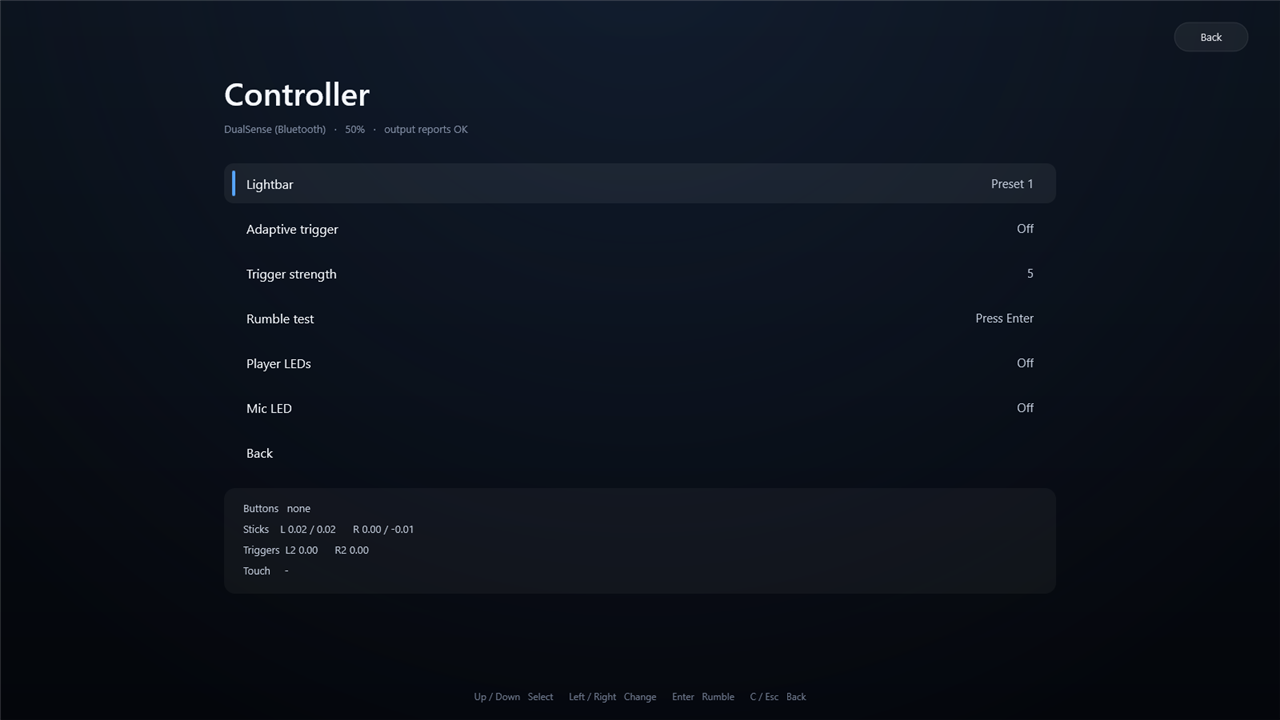
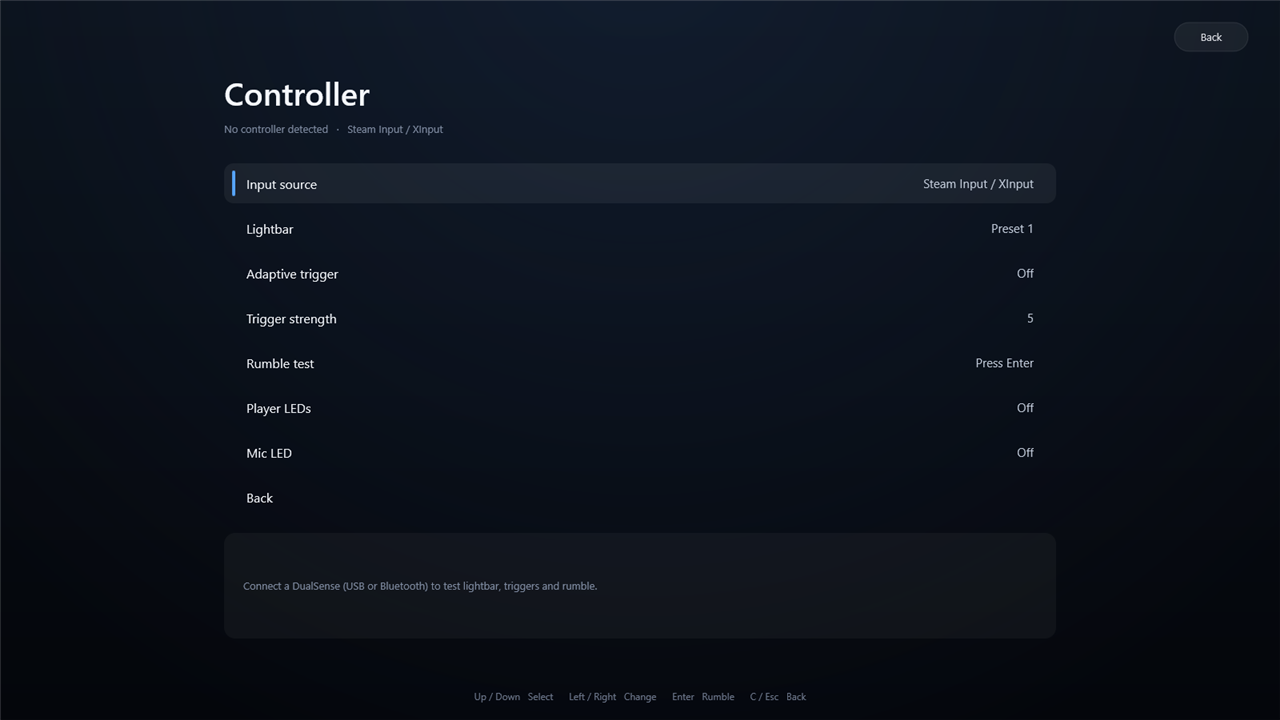
Controller: selectable input source (native HID vs Steam Input/XInput), docs

diff --git a/src/app/app.cpp b/src/app/app.cpp
@@ -32,7 +32,7 @@ std::string EnvString(const char* name) {
 }
 
 constexpr int kSettingCount = 9;
-constexpr int kControllerCount = 7;
+constexpr int kControllerCount = 8;
 constexpr int kAudioCount = 4;
 
 const wchar_t* kUpscalerNames[3] = {L"Bilinear", L"Catmull-Rom", L"Catmull-Rom + Sharpen"};
@@ -56,6 +56,11 @@ const uint8_t kPlayerLedMasks[] = {0x00, 0x04, 0x0A, 0x0F, 0x1F, 0x15};
 constexpr int kPlayerLedCount = static_cast<int>(std::size(kPlayerLedMasks));
 
 const wchar_t* kMicLedNames[] = {L"Off", L"On", L"Pulse"};
+
+const wchar_t* kInputSourceNames[] = {L"Auto (native first)", L"Native HID only",
+                                      L"Steam Input / XInput"};
+const Gamepad::Backend kInputBackends[] = {Gamepad::Backend::Auto, Gamepad::Backend::SonyHid,
+                                           Gamepad::Backend::XInput};
 
 TriggerEffect BuildTriggerEffect(int effect, int strength) {
     switch (effect) {
@@ -221,7 +226,7 @@ void App::DispatchClick() {
                 break;
             case Hit::ControllerRow:
                 controller_row_ = it->index;
-                if (it->index == 6) {
+                if (it->index == 7) {
                     screen_ = Screen::Home;
                 }
                 break;
@@ -235,7 +240,7 @@ void App::DispatchClick() {
                 break;
             case Hit::ControllerAction:
                 controller_row_ = it->index;
-                if (it->index == 3) {
+                if (it->index == 4) {
                     TriggerRumble();
                 }
                 break;
@@ -332,7 +337,7 @@ void App::HandleKey(int vk) {
             } else if (vk == VK_RIGHT) {
                 ChangeControllerValue(+1);
             } else if (vk == VK_RETURN) {
-                if (controller_row_ == 3) {
+                if (controller_row_ == 4) {
                     TriggerRumble();
                 }
             } else if (vk == VK_ESCAPE || vk == 'C') {
@@ -498,30 +503,34 @@ void App::ChangeAudioValue(int direction) {
 void App::ChangeControllerValue(int direction) {
     switch (controller_row_) {
         case 0:
-            lightbar_index_ = (lightbar_index_ + direction + kLightbarCount) % kLightbarCount;
+            input_source_ = (input_source_ + direction + 3) % 3;
+            pad_.SetBackend(kInputBackends[input_source_]);
             break;
         case 1:
-            trigger_effect_ = (trigger_effect_ + direction + kTriggerCount) % kTriggerCount;
+            lightbar_index_ = (lightbar_index_ + direction + kLightbarCount) % kLightbarCount;
             break;
         case 2:
-            trigger_strength_ = std::clamp(trigger_strength_ + direction, 1, 8);
+            trigger_effect_ = (trigger_effect_ + direction + kTriggerCount) % kTriggerCount;
             break;
         case 3:
+            trigger_strength_ = std::clamp(trigger_strength_ + direction, 1, 8);
+            break;
+        case 4:
             if (direction != 0) {
                 TriggerRumble();
             }
             break;
-        case 4:
+        case 5:
             player_leds_ = (player_leds_ + direction + kPlayerLedCount) % kPlayerLedCount;
             break;
-        case 5:
+        case 6:
             mic_led_ = (mic_led_ + direction + 3) % 3;
             break;
         default:
             break;
     }
 
-    if (controller_row_ != 3) {
+    if (controller_row_ != 4) {
         output_dirty_ = true;
     }
 }
@@ -940,6 +949,8 @@ void App::RenderController(double t) {
     ui_.Text(L"Controller", {x0, 84.0f, x0 + panel_w, 146.0f}, 40.0f, th::Rgba(th::kInk),
              DWRITE_FONT_WEIGHT_SEMI_BOLD);
     std::wstring pad_status = PadStatus(pad_.state());
+    pad_status += L"   ·   ";
+    pad_status += kInputSourceNames[input_source_];
     if (pad_.is_sony()) {
         pad_status += last_send_ok_ ? L"   ·   output reports OK" : L"   ·   output reports failed";
     }
@@ -956,6 +967,7 @@ void App::RenderController(double t) {
     const std::wstring strength_value = Widen(std::to_string(trigger_strength_));
 
     const Row rows[kControllerCount] = {
+        {L"Input source", kInputSourceNames[input_source_], true},
         {L"Lightbar", lightbar_value, true},
         {L"Adaptive trigger", kTriggerNames[trigger_effect_], true},
         {L"Trigger strength", strength_value, true},
@@ -989,9 +1001,9 @@ void App::RenderController(double t) {
                  DWRITE_TEXT_ALIGNMENT_TRAILING);
 
         AddHit(Hit::ControllerRow, i, row_rect);
-        if (i == 3) {
+        if (i == 4) {
             AddHit(Hit::ControllerAction, i, row_rect);
-        } else if (i < 6) {
+        } else if (i != 7) {
             AddHit(Hit::ControllerLeft, i,
                    {row_rect.left, row_rect.top, row_rect.left + panel_w * 0.35f, row_rect.bottom});
             AddHit(Hit::ControllerRight, i,

diff --git a/src/platform/gamepad.cpp b/src/platform/gamepad.cpp
@@ -424,7 +424,7 @@ void Gamepad::PollXInput() {
 
     PadState next;
     next.connected = true;
-    next.name = "Xbox controller";
+    next.name = "XInput pad (Steam-compatible)";
     next.buttons = 0;
 
     const WORD buttons = xinput_state.Gamepad.wButtons;
@@ -458,8 +458,25 @@ void Gamepad::PollXInput() {
     ApplyState(next);
 }
 
+void Gamepad::SetBackend(Backend backend) {
+    if (backend_ == backend) {
+        return;
+    }
+    backend_ = backend;
+    CloseDevice();
+    retry_at_ = 0.0;
+}
+
 void Gamepad::Poll() {
     const double now = NowSeconds();
+
+    if (backend_ == Backend::XInput) {
+        if (sony_active_) {
+            CloseDevice();
+        }
+        PollXInput();
+        return;
+    }
 
     if (handle_ != INVALID_HANDLE_VALUE) {
         PumpRead();
@@ -468,7 +485,7 @@ void Gamepad::Poll() {
         retry_at_ = now + 2.0;
     }
 
-    if (!sony_active_) {
+    if (!sony_active_ && backend_ == Backend::Auto) {
         PollXInput();
     }
 }

diff --git a/src/platform/gamepad.h b/src/platform/gamepad.h
@@ -95,14 +95,24 @@ struct PadOutput {
 
 // Controller input plus DualSense output. Two input backends, one state:
 //   * raw HID for Sony pads (DualSense / DualShock 4), USB and Bluetooth,
-//   * XInput fallback for Xbox pads and virtual pads.
+//   * XInput fallback for Xbox pads, virtual pads and Steam Input's Xbox
+//     emulation.
 class Gamepad {
 public:
+    enum class Backend {
+        Auto,    // native HID first, XInput if no Sony pad
+        SonyHid, // native HID only
+        XInput,  // Steam Input's Xbox emulation / Xbox pads
+    };
+
     Gamepad() = default;
     ~Gamepad();
 
     Gamepad(const Gamepad&) = delete;
     Gamepad& operator=(const Gamepad&) = delete;
+
+    void SetBackend(Backend backend);
+    Backend backend() const { return backend_; }
 
     void Poll();
 
@@ -143,6 +153,7 @@ private:
 
     PadState state_;
     uint32_t pressed_ = 0;
+    Backend backend_ = Backend::Auto;
 };
 
 }  // namespace brp

diff --git a/src/app/app.h b/src/app/app.h
@@ -103,6 +103,7 @@ private:
     int setting_row_ = 0;
     int controller_row_ = 0;
     int audio_row_ = 0;
+    int input_source_ = 0;  // 0 Auto, 1 native HID, 2 Steam Input / XInput
     bool hud_ = true;
     int upscale_ = 1;
     bool quit_ = false;

diff --git a/docs/12-steam-input.md b/docs/12-steam-input.md
@@ -1,0 +1,90 @@
+# 12 — Steam Input
+
+Short answer: **yes, and the useful half already works.** Everything depends on which of two different things you mean.
+
+---
+
+## The two meanings
+
+| | Steam Input as **Xbox emulation** | Steam Input **API** (Steamworks) |
+|---|---|---|
+| What it is | Steam reads the controller and presents a virtual XInput pad to the system | The app talks to Steam's input service through `ISteamInput` |
+| What the app needs | nothing | Steamworks SDK, `steam_api64.dll`, a real AppID, an action manifest, launched by Steam |
+| Data the app gets | XInput: 14 buttons, 2 sticks, 2 triggers | action sets, digital/analog actions, gyro, touchpad, per-controller info |
+| DualSense extras | lost (Steam flattens to XInput) | gyro/touchpad through Steam's config; **still no adaptive-trigger output** |
+| Works with Steam closed | yes (it's just a pad) | no |
+| Coupling to external software | none | hard dependency on Steam client + redistributable DLL |
+
+The important one for this project is the first: **if Steam Input is set to Xbox emulation, our existing XInput backend already reads it.** No SDK, no DLL, no launch requirement.
+
+---
+
+## What is implemented
+
+The Controller screen now has an **Input source** row:
+
+| Value | Behaviour |
+|---|---|
+| `Auto (native first)` | opens the Sony HID device if present, otherwise falls back to XInput. Default. |
+| `Native HID only` | Sony HID only. Full DualSense fidelity, ignores XInput. |
+| `Steam Input / XInput` | XInput only. This is the mode that consumes Steam's virtual pad. |
+
+Choosing `Steam Input / XInput` closes the HID handle, so it does not fight Steam for the device. Choosing `Auto` reopens HID within 2 s.
+
+![Controller](images/app-controller.png)
+
+The screenshot is with **Steam Input / XInput** selected and no virtual pad present, which is why it reports `No controller detected`. With Steam running and Xbox emulation enabled, the same selection shows `XInput pad (Steam-compatible)`.
+
+### Setting it up
+
+1. Steam → Settings → Controller → enable **Steam Input** for the DualSense.
+2. In the per-controller layout, choose **Xbox controller emulation** (not "native").
+3. Our app → Controller → Input source → `Steam Input / XInput`.
+
+Steam then applies your layout, gyro, touchpad and deadzones, and we see the result as a normal XInput pad.
+
+### The honest cost
+
+XInput cannot carry DualSense-specific features. In this mode you lose:
+
+- lightbar / player LEDs / mic LED
+- adaptive triggers (our output stage has nothing to bind to)
+- touchpad as a distinct surface, gyro as raw data
+- battery level
+
+You gain Steam's per-game layouts, and it works with any controller Steam supports. That is a real trade, not a bug — so the default stays native HID, and the choice is explicit.
+
+---
+
+## The Steamworks API path (not implemented)
+
+Full `ISteamInput` integration is the only way to get Steam's *action sets* into the app. Requirements, all mandatory:
+
+1. **`steam_api64.dll` next to the exe** — redistributable, but it must be bundled, i.e. a hard external dependency the app carries.
+2. **A valid AppID.** `480` (Spacewar) is for development only; shipping with it is not permitted. A real AppID requires a Steamworks partner account.
+3. **An action manifest** (`steam_input_manifest.vdf`) describing action sets and actions, shipped with the app and registered per AppID.
+4. **The app must be launched by Steam** with `SteamAppId` set (or a `steam_appid.txt` during development), and the Steam client must be running.
+
+If any of those is missing, `SteamAPI_Init` fails and there is no input at all — the app would have *less* controller support than it has today. That is why this is not the default, and why it cannot be silently enabled.
+
+It also does not solve output: Steam Input has rumble (`TriggerVibration`) but **no adaptive-trigger API**. Trigger effects would still go through our HID output path, and HID + Steam cannot both own the device — so it would have to be either/or, never both.
+
+---
+
+## Recommendation
+
+| Use case | Choice |
+|---|---|
+| Just playing, want Steam layouts/gyro/deadzones | Steam Input → Xbox emulation + `Steam Input / XInput` |
+| Want lightbar, adaptive triggers, touchpad, battery | `Auto` / `Native HID only`, Steam Input off for this pad |
+| Want both in the future | two devices, or a Steamworks build with an AppID and accept losing trigger output |
+
+If you want the Steamworks path anyway, it is a well-defined piece of work: bundle the DLL, add a manifest, add a provider behind the existing `Backend` enum, and gate it behind "Steam is running and the API initialized". Say the word and I will scope it — but it will always be optional, never required.
+
+---
+
+## Implementation notes
+
+- The provider split is already there: `Gamepad::Backend { Auto, SonyHid, XInput }`. Adding a `SteamApi` backend means one more branch in `Poll()`, not a rewrite.
+- We do not attempt to detect "is this XInput device Steam's virtual pad". It is not reliably observable, so the UI says `XInput pad (Steam-compatible)` and the user chooses the source explicitly.
+- `XInputGetState` is polled per frame; Steam's virtual pad has the same latency profile as any XInput device, ~1 frame.

diff --git a/README.md b/README.md
@@ -7,7 +7,7 @@ A better PlayStation 5 → PC Remote Play client.
 **What exists right now**
 
 - **`brp.exe` — the app.** PS5-inspired rail, settings, controller lab, and a stream screen running the real post-process pipeline with a live latency HUD. Mouse and controller navigation, no browser in the video path. See [docs/08-app.md](docs/08-app.md) and [docs/10-input.md](docs/10-input.md).
-- **DualSense support.** Raw HID (no DS4Windows) + XInput fallback. Parse: buttons, sticks, triggers, touch points, gyro/accel, battery. Output: lightbar RGB, 8 adaptive-trigger effects, rumble, player LEDs, mic LED. Bluetooth output uses the `0x31` report with CRC32.
+- **DualSense support.** Raw HID (no DS4Windows) + XInput fallback. Parse: buttons, sticks, triggers, touch points, gyro/accel, battery. Output: lightbar RGB, 8 adaptive-trigger effects, rumble, player LEDs, mic LED. Bluetooth output uses the `0x31` report with CRC32. Input source is selectable: native HID, or XInput (which is how Steam Input's Xbox emulation is consumed).
 - **Audio.** WASAPI shared-mode engine inside the app: 48 kHz float stereo in, endpoint out. No virtual cable, no driver, no external DLL. The DualSense 3.5 mm jack is a normal USB audio endpoint — select it and audio goes to the controller. See [docs/11-audio.md](docs/11-audio.md).
 - **Session import.** Console identity + PSN account from a local PXPlay install (metadata only — PXPlay encrypts its keys; see [docs/09-session.md](docs/09-session.md)).
 - **`brp-bench`** — benchmark of the media path. 0.19 ms p50 at 1080p→4K on the target machine. See [docs/07-bench-log.md](docs/07-bench-log.md).
@@ -90,6 +90,7 @@ Useful flags: `--width/--height` output size, `--src-width/--src-height` source 
 | [docs/09-session.md](docs/09-session.md) | Session data: what PXPlay exposes, what is encrypted, our session file format |
 | [docs/10-input.md](docs/10-input.md) | Mouse, keyboard, controller navigation, DualSense input/output matrix |
 | [docs/11-audio.md](docs/11-audio.md) | Audio: WASAPI in-process, DualSense jack over USB, latency, A/V clock plan |
+| [docs/12-steam-input.md](docs/12-steam-input.md) | Steam Input: Xbox emulation vs Steamworks API, trade-offs, setup |
 
 ## Legal note
 
